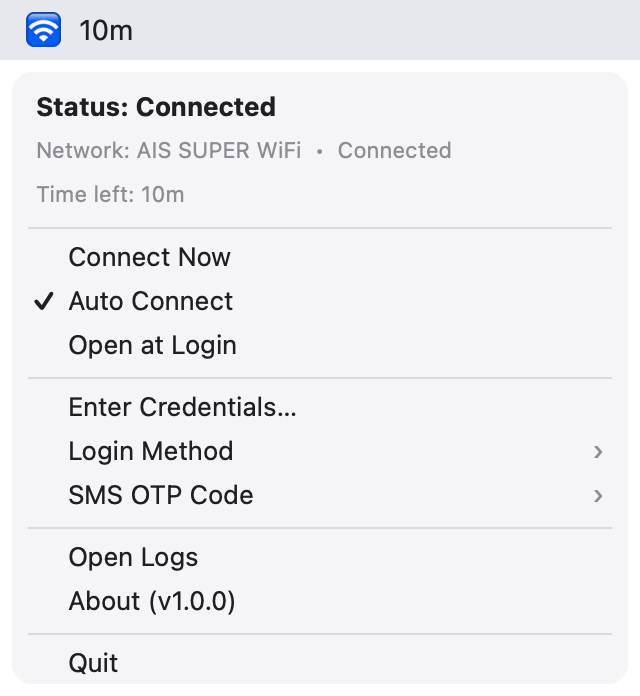
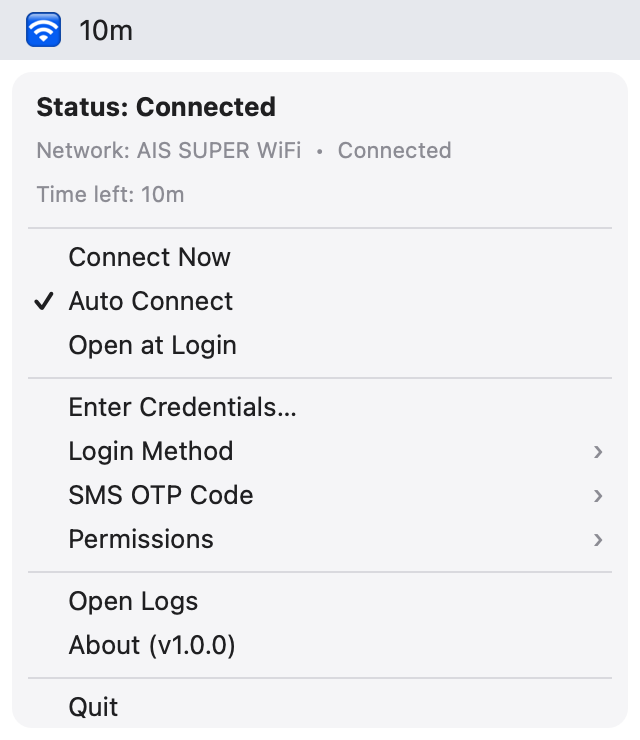
Surface permissions in the menu
Add a Permissions submenu that shows, live, whether Full Disk Access is
granted (for reading the SMS OTP from Messages) and opens the right
System Settings pane on click. The parent gets a ⚠ only when the current
settings actually need a missing permission — SMS OTP reading from
Messages without access — so it stays quiet for the ask/password paths.
Also links the Location pane for the (optional) Wi-Fi name. README and the
menu screenshot updated. 100 tests.

diff --git a/aiswifi/app.py b/aiswifi/app.py
@@ -32,8 +32,9 @@ from . import providers as providers_mod
 
 logger = logging.getLogger("aiswifi.app")
 
-# System Settings → Privacy & Security → Full Disk Access
+# System Settings → Privacy & Security → …
 FULL_DISK_ACCESS_URL = "x-apple.systempreferences:com.apple.preference.security?Privacy_AllFiles"
+LOCATION_URL = "x-apple.systempreferences:com.apple.preference.security?Privacy_LocationServices"
 
 # Menu bar title (short icon) per status. Emoji are used instead of text.
 STATUS_ICON = {
@@ -122,6 +123,16 @@ class AISWifiApp(rumps.App):
                                           callback=self._on_otp_source_ask)
         self._sync_otp_source_checks()
 
+        # Permissions submenu — shows live state and opens the right Settings
+        # pane. The parent gets a ⚠ when the current settings need a missing one.
+        self.perm_menu = rumps.MenuItem("Permissions")
+        self.perm_fda = rumps.MenuItem("Full Disk Access", callback=self._on_open_fda)
+        self.perm_location = rumps.MenuItem("Wi-Fi name (Location) — optional",
+                                            callback=self._on_open_location)
+        self.perm_menu.add(self.perm_fda)
+        self.perm_menu.add(self.perm_location)
+        self._sync_permissions()
+
         self.log_item = rumps.MenuItem("Open Logs", callback=self._on_open_log)
         self.about_item = rumps.MenuItem(f"About (v{__version__})", callback=self._on_about)
         self.quit_item = rumps.MenuItem("Quit", callback=self._on_quit)
@@ -138,6 +149,7 @@ class AISWifiApp(rumps.App):
             self.creds_item,
             {"Login Method": [self.method_pw, self.method_otp]},
             {"SMS OTP Code": [self.otp_src_messages, self.otp_src_ask]},
+            self.perm_menu,
             None,
             self.log_item,
             self.about_item,
@@ -201,10 +213,11 @@ class AISWifiApp(rumps.App):
             self._notify_transition(self._last_status, status, detail)
             self._last_status = status
 
-        # Pick up Login Items changes made in System Settings.
+        # Pick up Login Items / permission changes made in System Settings.
         self._ticks += 1
         if self._ticks % 10 == 0:
             self._sync_login_item()
+            self._sync_permissions()
 
     def _notify(self, title: str, message: str) -> None:
         """Show a notification (main thread). Silently skip if there is no notification center."""
@@ -335,6 +348,25 @@ class AISWifiApp(rumps.App):
         source = self.cfg.get("otp_source", "messages")
         self.otp_src_messages.state = 1 if source == "messages" else 0
         self.otp_src_ask.state = 1 if source == "ask" else 0
+
+    def _sync_permissions(self) -> None:
+        """Reflect permission state in the Permissions submenu (live)."""
+        fda_ok = otp.can_read_messages()
+        self.perm_fda.state = 1 if fda_ok else 0
+        self.perm_fda.title = ("Full Disk Access: granted" if fda_ok
+                               else "Full Disk Access: not granted — for SMS OTP auto-read")
+        # A ⚠ on the parent only when the current settings actually need it:
+        # SMS OTP method reading the code from Messages, but access is missing.
+        needs_fda = (self.cfg.get("login_method") == "otp"
+                     and self.cfg.get("otp_source") == "messages" and not fda_ok)
+        self.perm_menu.title = "Permissions  ⚠" if needs_fda else "Permissions"
+
+    def _on_open_fda(self, _sender) -> None:
+        self._explain_full_disk_access()
+
+    def _on_open_location(self, _sender) -> None:
+        _bring_to_front()
+        subprocess.run(["open", LOCATION_URL], check=False)
 
     def _on_set_credentials(self, _sender) -> None:
         # For which provider? The preferred one if set, otherwise AIS.

diff --git a/tests/test_app_threading.py b/tests/test_app_threading.py
@@ -195,6 +195,31 @@ class OtpSourceMenuTests(unittest.TestCase):
 
 
 @unittest.skipIf(app_mod is None, "requires macOS + rumps")
+class PermissionsMenuTests(unittest.TestCase):
+    def _sync(self, method, source, fda):
+        app = mock.Mock()
+        app.cfg = {"login_method": method, "otp_source": source}
+        with mock.patch.object(app_mod.otp, "can_read_messages", return_value=fda):
+            app_mod.AISWifiApp._sync_permissions(app)
+        return app
+
+    def test_warns_only_when_messages_otp_needs_missing_access(self):
+        a = self._sync("otp", "messages", False)
+        self.assertIn("⚠", a.perm_menu.title)
+        self.assertEqual(a.perm_fda.state, 0)
+        self.assertIn("not granted", a.perm_fda.title)
+
+    def test_no_warning_when_access_granted(self):
+        a = self._sync("otp", "messages", True)
+        self.assertEqual(a.perm_menu.title, "Permissions")
+        self.assertEqual(a.perm_fda.state, 1)
+
+    def test_no_warning_for_ask_mode_or_password(self):
+        self.assertEqual(self._sync("otp", "ask", False).perm_menu.title, "Permissions")
+        self.assertEqual(self._sync("password", "messages", False).perm_menu.title, "Permissions")
+
+
+@unittest.skipIf(app_mod is None, "requires macOS + rumps")
 class ActivationPolicyTests(unittest.TestCase):
     def test_run_makes_app_focusable_before_start(self):
         # With a non-framework Python the default "Prohibited" policy prevents

diff --git a/README.md b/README.md
@@ -151,6 +151,13 @@ with an **Open Settings** button that takes you to the right pane.
 Rebuilding the app with `make_app.py` gives it a new signature, so macOS may
 require you to turn the permission off and on again after a rebuild.
 
+The menu's **Permissions** submenu shows whether Full Disk Access is granted
+and marks itself with a ⚠ when your current settings need it (SMS OTP reading
+from Messages without access); click the item to open the right Settings pane.
+Note: on a captive portal the forwarded SMS cannot reach the Mac anyway (it
+needs internet you do not have yet), so **Ask me in a window** is the reliable
+OTP choice and needs no permission.
+
 The **Messages : readable / unreadable** line in the output of
 `python3 run.py --diagnose` shows whether the permission works.
 
